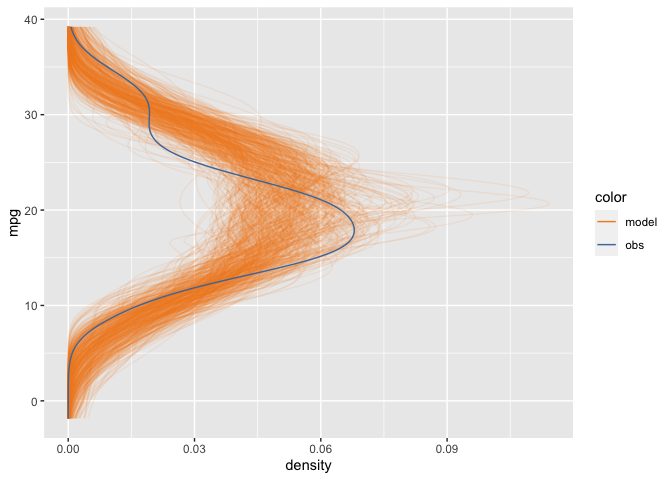
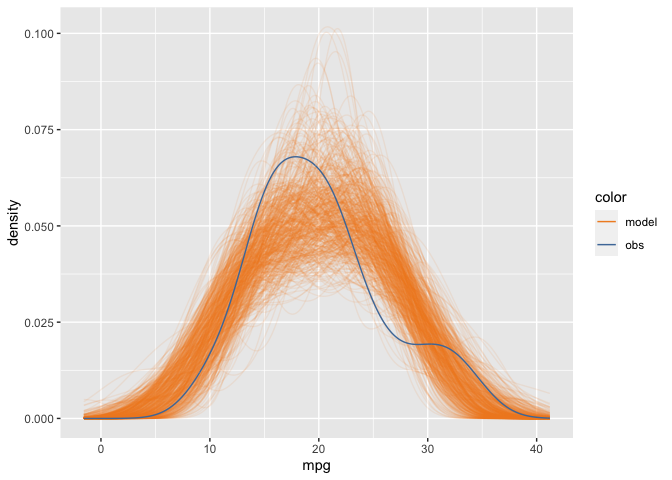
migrate to mucollective

diff --git a/README.md b/README.md
@@ -24,7 +24,7 @@ You can install the development version of modelcheck from
 
 ``` r
 # install.packages("devtools")
-devtools::install_github("Guoziyang27/modelcheck")
+devtools::install_github("MUCollective/modelcheck")
 ```
 
 ## Usage
@@ -83,8 +83,8 @@ model
 
 ### Examples
 
-You can create a default model check to do posterior predictive check
-using only `mcplot()`.
+You can create a default model check to do posterior predictive check by
+`mcplot()` (using `coord_flip()` to flip response variable to x axis).
 
 ``` r
 library(modelcheck)
@@ -99,7 +99,8 @@ library(dplyr)
 #> 
 #>     intersect, setdiff, setequal, union
 model %>%
-  mcplot()
+  mcplot() +
+  mc_gglayer(coord_flip())
 ```
 
 <img src="man/figures/README-unnamed-chunk-4-1.png" width="100%" />
@@ -111,7 +112,8 @@ distribution of `mu` from the Gaussian model we define earlier.
 ``` r
 model %>%
   mcplot() +
-  mc_distribution("mu")
+  mc_distribution("mu") +
+  mc_gglayer(coord_flip())
 ```
 
 <img src="man/figures/README-unnamed-chunk-5-1.png" width="100%" />
@@ -153,7 +155,7 @@ model %>%
   mc_condition_on(x = vars(disp)) +
   mc_model_lineribbon() +
   mc_layout_juxtaposition()
-#> Warning: Removed 19 rows containing missing values (`stat_slabinterval()`).
+#> Warning: Removed 18 rows containing missing values (`stat_slabinterval()`).
 ```
 
 <img src="man/figures/README-unnamed-chunk-8-1.png" width="100%" />
